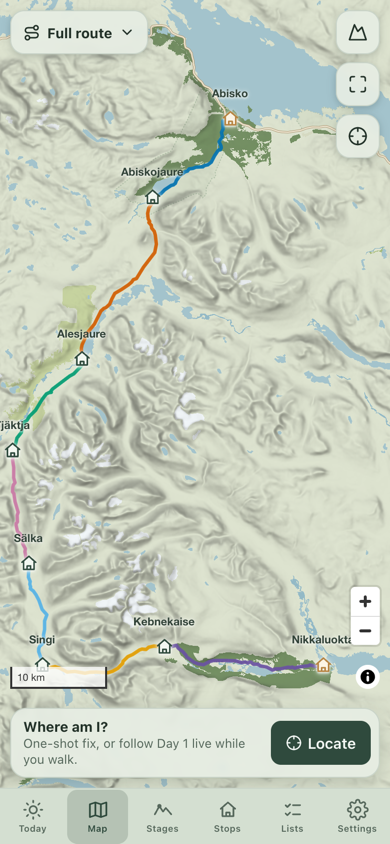
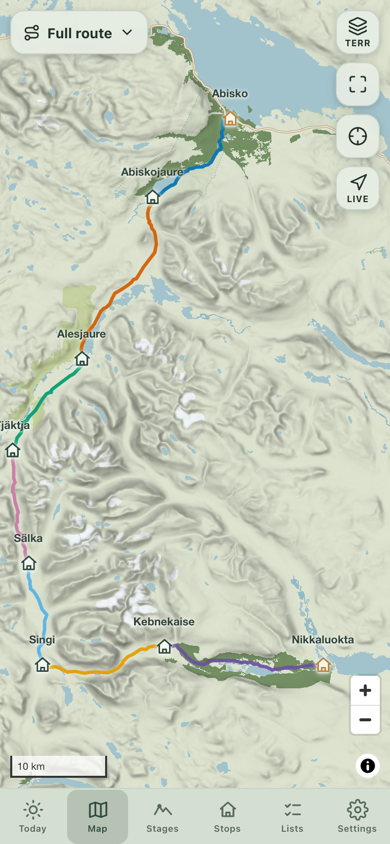
Refresh cockpit evidence for the corrected design
Screenshots and measurements re-captured on the corrected cockpit: the idle
map at all eight viewports (no bottom band, map 100% of <main>, 0px
overflow), the anchored layers popover at 320 and 1280, and the full
behaviour set — one-shot locate, an in-flight locate, permission denial,
tracking start / pan-pauses-follow / resume / stop, the no-current-stage
refusal, the deep link, and the reduced-transparency surfaces.

Changed region(s): [[0.0, 0.6777, 0.9846, 0.9242], [0.8615, 0.1848, 0.9538, 0.2464], [0.8923, 0.0, 0.9538, 0.0616]]

diff --git a/docs/pr-evidence/2026-08-map-trail-cockpit/pr2-measurements.md b/docs/pr-evidence/2026-08-map-trail-cockpit/pr2-measurements.md
@@ -1,75 +1,88 @@
-# Trail Cockpit, step 2 — controls: measured evidence
+# Trail Cockpit — corrected design: measured evidence
 
 Captured headlessly (Chrome for Testing, deviceScaleFactor 2) against the dev
 server at `#/map`, default state. `route clearance` projects the **route
-bounds** onto the screen and measures the gap to each overlay's edge, so a
-negative number means geometry is framed under that overlay.
+bounds** onto the screen and measures the gap to each overlay's edge.
 
-## Layout, framing and touch targets
+This supersedes the first cockpit round: the permanent "Where am I?" status
+dock and its details sheet were rejected in review and removed, the layer
+sheet became an anchored popover, and one-shot locate and live tracking are
+now two separate controls.
 
-| Viewport | Map surface | `main` overflow | lead column depth | dock height | route clearance: dock / lead / stack | smallest cockpit target | nav |
+## Layout, framing and touch targets (idle map)
+
+| Viewport | Map surface | `main` / document overflow | idle bottom band | route clearance: lead / stack | gap below route | smallest control | nav |
 | --- | --- | --- | --- | --- | --- | --- | --- |
-| 320×568 | 320×512 | **0 px** | 44 px | 70.5 px | **+2** / 30.5 / 18.1 px | 44 px | bar, visible |
-| 375×667 | 375×611 | **0 px** | 44 px | 70.5 px | **+11.1** / 21.4 / 36 px | 44 px | bar, visible |
-| 390×844 | 390×788 | **0 px** | 44 px | 70.5 px | **+34.2** / 63.8 / 12.9 px | 44 px | bar, visible |
-| 430×932 | 430×876 | **0 px** | 44 px | 70.5 px | **+47** / 76.9 / 15 px | 44 px | bar, visible |
-| 760×500 | 676×500 | **0 px** | 44 px | 56 px | **+4.3** / −5.6 / 126.3 px | 44 px | rail, visible |
-| 768×1024 | 684×1024 | **0 px** | 44 px | 56 px | **+20** / 12 / 70.5 px | 44 px | rail, visible |
-| 1024×768 | 940×768 | **0 px** | 44 px | 62 px | **+24** / 12 / 224.7 px | 44 px | rail, visible |
-| 1280×800 | 1132×800 | **0 px** | 44 px | 62 px | **+6.3** / −7.5 / 257.5 px | 44 px | rail, visible |
+| 320×568 | 320×512 (100 %) | **0 / 0 px** | none (`--map-bottom-h: 0px`) | 20.3 / 16 px | 20.3 px | 44 px | bar, visible |
+| 375×667 | 375×611 (100 %) | **0 / 0 px** | none | 20.8 / 16 px | 20.8 px | 44 px | bar, visible |
+| 390×844 | 390×788 (100 %) | **0 / 0 px** | none | 63.8 / 12.9 px | 114.7 px | 44 px | bar, visible |
+| 430×932 | 430×876 (100 %) | **0 / 0 px** | none | 76.9 / 15 px | 127.5 px | 44 px | bar, visible |
+| 760×500 | 676×500 (100 %) | **0 / 0 px** | none | 11.1 / 146.5 px | 10.8 px | 44 px | rail, visible |
+| 768×1024 | 684×1024 (100 %) | **0 / 0 px** | none | 12 / 49.8 px | 12 px | 44 px | rail, visible |
+| 1024×768 | 940×768 (100 %) | **0 / 0 px** | none | 12 / 243.2 px | 12 px | 44 px | rail, visible |
+| 1280×800 | 1132×800 (100 %) | **0 / 0 px** | none | 12 / 281.5 px | 12 px | 44 px | rail, visible |
 
-- the map surface is **100 % of `<main>`** at every viewport (step 1 left the
-  compact dock occupying up to 44 %; the cockpit gives that back);
-- **no route is framed under the status dock anywhere** — the tightest case
-  is the 320 px phone at +2 px, where the coverage contract's own bounds are
-  the binding constraint (see below);
-- the two −5.6 px / −7.5 px "lead" figures are the route BOUNDING BOX's top
-  edge against the 44 px scope pill. The pill sits on the left and the
-  route's northern end (Abisko) is at the eastern edge of that box, so no
-  drawn geometry is actually behind the pill; the measurement is deliberately
-  conservative (box, not line);
-- every cockpit control measures ≥ 44×44 px;
-- MapLibre's zoom control is present only for fine pointers (all captures run
-  in a desktop browser, hence `zoomCtrl 1`); the native fullscreen control is
-  absent everywhere;
-- the dock always sits above the bottom navigation (`dockAboveNav: true`);
+- the map is **100 % of `<main>`** everywhere, and with the dock gone there
+  is **no reserved band at the bottom at all** — the camera's bottom inset
+  is the 12 px base margin only, and `--map-bottom-h` (which lifts MapLibre's
+  scale/attribution/zoom controls) is `0px` until a tracking pill exists;
+- the route now ends 20 px above the map's bottom edge on a phone instead of
+  2 px above a dock, and 115–128 px above it on tall phones;
+- every control measures ≥ 44×44 px; MapLibre's zoom control is present only
+  for fine pointers (all captures run in a desktop browser); the native
+  fullscreen control is absent everywhere;
 - zero console errors at every viewport.
 
-## Why the 320 px case lands at +2 px
+While a tracking session runs, the pill's band measures 74 px at 375×667 and
+is reflected in both the camera padding and `--map-bottom-h`.
 
-The route is 153.9 km tall in Mercator inside 218.2 km of user bounds, so a
-512 px workspace has ~151 px of vertical slack — less than the 44 px pill
-plus the ~89 px dock band plus margins need. Rather than weaken the coverage
-boundary, the overview expansion (which already widens east/west for wide
-viewports) now also widens **north/south** by exactly what the padded fit
-needs, capped by the physical envelope (the data bounds minus a 2 km margin —
-real archive data, never a crop edge) and active only below the zoom
-threshold. On a 320 px phone the requirement (~7.8 km per side) exceeds the
-cap (~6 km), so the fit lands 2 px clear instead of the ideal 12 px. Every
-other viewport honours the padding exactly.
+## Layers popover (not a sheet)
 
-Known limitation: a hut marker's glyph is centred on its coordinate, so at
-the very end of a fitted stage the lower half of a marker can overlap the
-dock even though the line itself is clear.
+| Viewport | Element | Role | Fits in viewport | Share of the map it covers | Width |
+| --- | --- | --- | --- | --- | --- |
+| 320×568 | `div.map-popover` | `radiogroup` (options `radio`) | yes | **16.4 %** | 196 px |
+| 1280×800 | `div.map-popover` | `radiogroup` | yes | **3.4 %** | 224 px |
 
-## Behaviours (375×667 unless noted)
+Behaviour: Enter on the button opens it with focus on the checked option
+(Terrain); ArrowDown moves to Satellite; Escape closes and returns focus to
+`Choose map layer`; choosing Satellite applies the layer (`satellite`
+visibility → `visible`, button caption → `Sat`) and closes; a pointer press
+anywhere else closes it. With the satellite archive blocked, the option stays
+listed, is `disabled`, and reads *Download in Settings first* — with **no**
+permanent note on the map.
+
+## Location and tracking
 
 | Case | Result |
 | --- | --- |
-| GPS permission denied → Locate | dock turns warn: "Location unavailable" / "Location permission denied. Use manual mode below." / **Retry** |
-| Manual fallback (details sheet → manual mode → Set position from stop) | dock reads "Pinned to a stop"; honest "Not reliably matched to Day 1 — progress unavailable" because the pinned stop is not on the current stage |
-| One-shot fix granted (68.2735, 18.6635) | dock reads "GPS fix"; GPS source populated; the Follow control appears only now |
-| Scope sheet | modal, scroll-locked, focus inside; lists Full route + 7 stages; **Viewing** and **Current** are separate markers |
-| Choosing Day 5 | pill → "Day 5 · Sälka → Singi", camera fits the stage, dock adds "Viewing **Day 5** · Tracking **Day 1**"; sheet closed, scroll unlocked |
-| Layer sheet | Terrain/Satellite radios; satellite disabled with "Download it in Settings → Satellite imagery" when absent |
-| Escape on a sheet | closes it, focus returns to the opener (`Map layer: Terrain`), scroll unlocked |
-| Keyboard | Enter on the scope pill opens the sheet with focus inside, Tab stays inside, Escape restores focus to `.map-scope`; Enter on a hut marker opens the preview with focus in it, Escape closes it |
-| Route direction reversed | scope sheet reads Day 1 · Nikkaluokta → Kebnekaise … Day 7 · Abiskojaure → Abisko |
-| Reduced motion | 0 running animations, `transition-duration: 0s` on the cockpit |
-| Reduced transparency / more contrast | `backdrop-filter: none`, solid paper background on the dock |
-| Deep link (Today → View route) | navigates to `#/map`, pill shows "Day 1 · Abisko → Abiskojaure", camera fitted to the stage (zoom 10.03) |
+| One-shot **Locate me** (fix 68.2735, 18.6635) | camera centres on the fix; **no** session, **no** pill, **no** bottom band; the tracking control still reads *Start live tracking* |
+| Duplicate activation while a request is in flight | the control becomes *Locating your position*, `disabled`, `aria-busy="true"` — `Locate me` is not reachable |
+| Location permission denied | transient note: *Location permission denied. Allow location access for this site and try again.* — no pill, no band, no sheet |
+| **Start live tracking** with no current stage | transient note: *Select a current stage in Stages before starting live tracking.* — nothing starts |
+| Live tracking started (walking along Day 1) | pill: live dot + *Following Day 1* + *On route* + *Stop live tracking*; control reads *Following your position* (`aria-pressed=true`); band 74 px |
+| Deliberate pan while tracking | pill switches to *Tracking Day 1* (dot stops blinking), control becomes *Resume following* — **the session stays alive** |
+| **Resume following** | camera recentres exactly on the last fix (18.732703, 68.315942) at zoom 13 and follow resumes |
+| **Stop** | pill and band removed, `--map-bottom-h` back to `0px`, control back to *Start live tracking* |
 
-Not exercised live: the **point/route** "View on map" focus variants — no
-mappable experience or curated place exposes that action in the current data
-state, so those paths are covered by source fences only (the focus effect and
-the pill's focus label are unchanged in behaviour from before this PR).
+Route-state wording is unit-fenced (`tests/map-tracking-pill.test.mjs`):
+off-route only for a debounced off-route status, uncertainty damped, waiting
+before the first fix, and no progress numbers on the map at all.
+
+## Everything else still holding
+
+| Case | Result |
+| --- | --- |
+| Route direction reversed | scope sheet reads Day 1 · Nikkaluokta → Kebnekaise … Day 7 · Abiskojaure → Abisko |
+| Stop marker (keyboard) | preview opens on Enter with focus inside (*Abisko*), Escape closes it |
+| Today → *View route* deep link | `#/map`, scope pill *Day 1 · Abisko → Abiskojaure*, camera fitted to the stage (zoom 10.03) |
+| Reduced motion | 0 running animations, `transition-duration: 0s` |
+| Reduced transparency / more contrast | `backdrop-filter: none`, solid paper surfaces |
+| Browser Fullscreen API | not used anywhere (repo-wide scan is part of the suite) |
+
+## Deferred
+
+**Full-route overview framing / additional surrounding terrain, including
+Tjäktja label clearance.** The overview still frames the route tightly enough
+that the Tjäktja label clips at the left edge on narrow phones. Nothing in
+this pass changed the route-overview framing or the camera envelope; it needs
+its own iteration.
